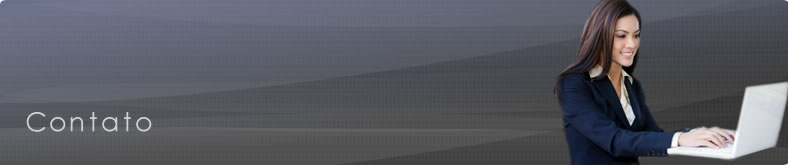
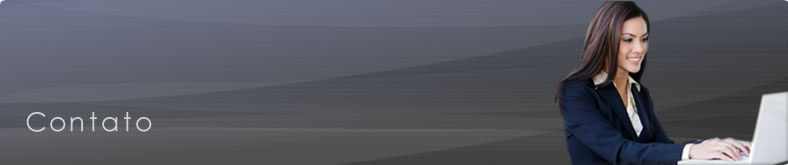
Ajsutes quarta-feira 8/6

Changed region(s): [[0.7005, 0.0, 1.0, 1.0], [0.7005, 0.7273, 0.731, 0.7576]]

diff --git a/public/stylesheets/home.css b/public/stylesheets/home.css
@@ -48,7 +48,7 @@ body
 #Geral #Header #Logo
 {
 	width:457px;
-	height:124px;
+	height:94px;
 	float:left;	
 	height:auto;
 	/*border:1px solid red;*/
@@ -76,7 +76,7 @@ body
 			height:17px;
 			text-align:right;
 			padding-right:5px;
-			padding-top:107px;
+			padding-top:77px;
 			font-size:11px;
 			color:#999999;
 			cursor:pointer;

diff --git a/app/controllers/biblioteca_controller.rb b/app/controllers/biblioteca_controller.rb
@@ -1,0 +1,18 @@
+class BibliotecaController < ApplicationController
+  before_filter :load_dynamic
+  
+  def index
+    
+  end
+  
+  def load_dynamic
+   @DynamicPage = DynamicPage.first(:conditions => ['id = ? AND published = 1', ID_BIBLIOTECA])
+    
+    @Conteudo = @DynamicPage.body
+    @Imagem = @DynamicPage.image.url
+    @Legenda = @DynamicPage.legend
+    @Titulo = @DynamicPage.title
+    
+    @Header = Header.first(:conditions => ['dynamic_page_id = ? AND published = 1', ID_BIBLIOTECA], :order => 'id DESC')
+ end
+end

diff --git a/app/models/sitecontact.rb b/app/models/sitecontact.rb
@@ -2,4 +2,8 @@ class Sitecontact < ActiveRecord::Base
   validates_presence_of :name
   validates_presence_of :email
   validates_presence_of :message
+  
+  has_attached_file :file,
+        :url => "/uploads/:attachment/:id/:basename_:style.:extension",
+        :path => ":rails_root/public/uploads/:attachment/:id/:basename_:style.:extension"
 end

diff --git a/config/routes.rb b/config/routes.rb
@@ -49,6 +49,7 @@ ActionController::Routing::Routes.draw do |map|
   map.resources :newsletters
   map.resources :mapadosite, :singular => :mapadosite_item
   map.resources :impressao, :singular => :impressao_item
+  map.resources :biblioteca, :singular => :biblioteca_item
   
   map.resources :noticias do |noticias|
     noticias.resources :imagens

diff --git a/test/functional/biblioteca_controller_test.rb b/test/functional/biblioteca_controller_test.rb
@@ -1,0 +1,8 @@
+require 'test_helper'
+
+class BibliotecaControllerTest < ActionController::TestCase
+  # Replace this with your real tests.
+  test "the truth" do
+    assert true
+  end
+end

diff --git a/test/unit/helpers/biblioteca_helper_test.rb b/test/unit/helpers/biblioteca_helper_test.rb
@@ -1,0 +1,4 @@
+require 'test_helper'
+
+class BibliotecaHelperTest < ActionView::TestCase
+end

diff --git a/app/helpers/biblioteca_helper.rb b/app/helpers/biblioteca_helper.rb
@@ -1,0 +1,2 @@
+module BibliotecaHelper
+end
